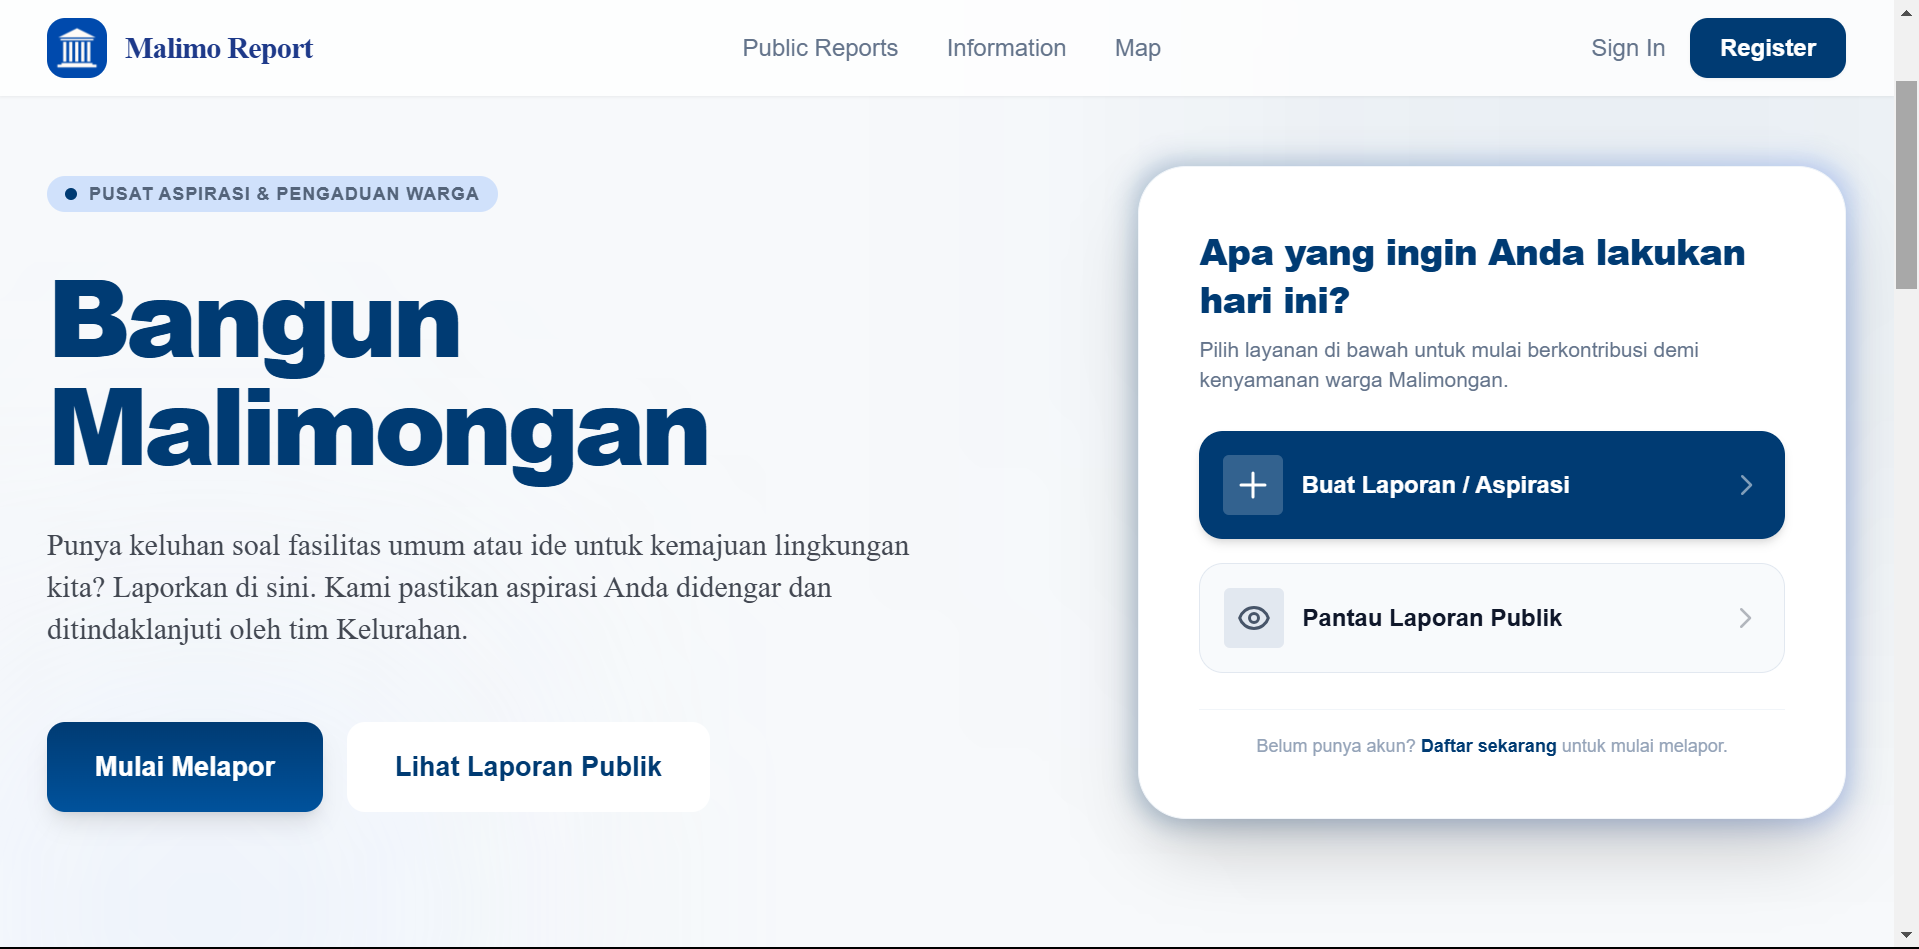
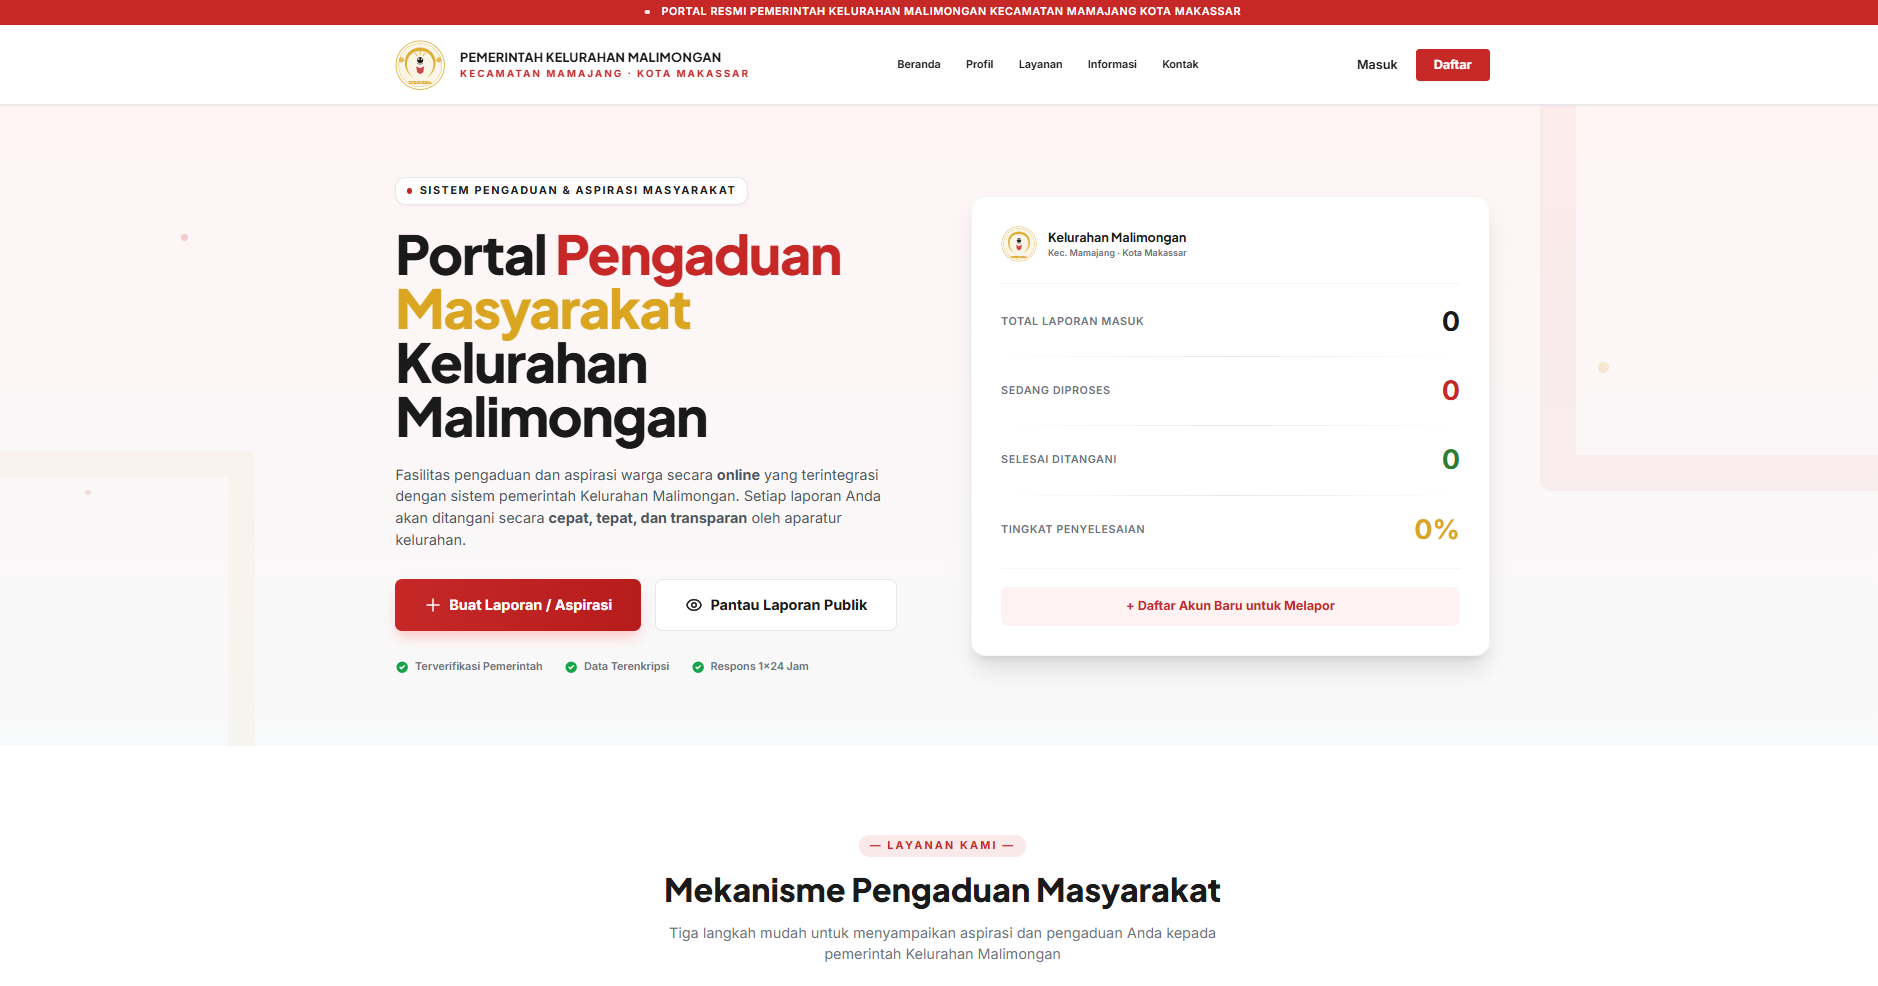
updated-work

diff --git a/index.html b/index.html
@@ -155,7 +155,7 @@
         <div class="fade-in-left flex justify-center md:justify-start">
           <div
             class="w-48 h-64 md:w-64 md:h-80 rounded-2xl overflow-hidden border border-gray-200 shadow-lg bg-gray-100">
-            <img src="images/WhatsApp Image 2026-04-01 at 19.48.17.jpeg" alt="Portrait photo of Ib" loading="lazy"
+            <img src="images/ib.jpeg" alt="Portrait photo of Ib" loading="lazy"
               class="w-full h-full object-cover filter saturate-50 transition-transform duration-500 hover:scale-105" />
           </div>
         </div>
@@ -189,7 +189,7 @@
                 <i data-feather="server" class="w-4 h-4"></i> Backend
               </h4>
               <p class="text-sm text-gray-600">
-                Laravel 12, Node.js, Go, MySQL.
+                Laravel 12, Node.js, Go, MySQL, PosgreSQL
               </p>
             </div>
             <div class="fade-in stagger-3">